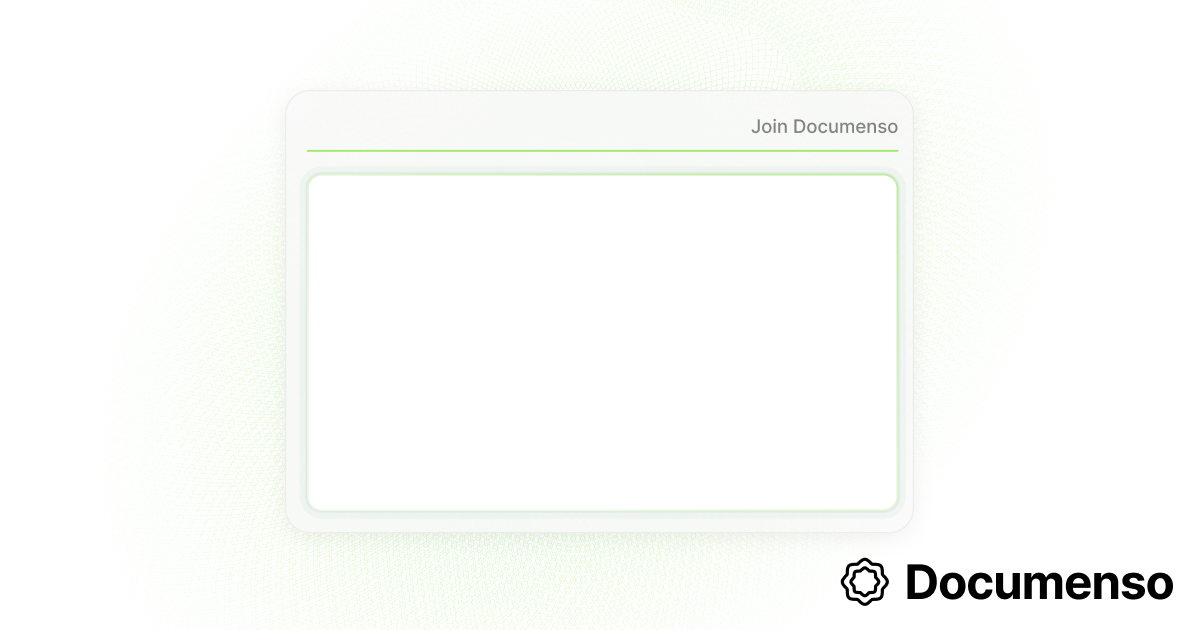
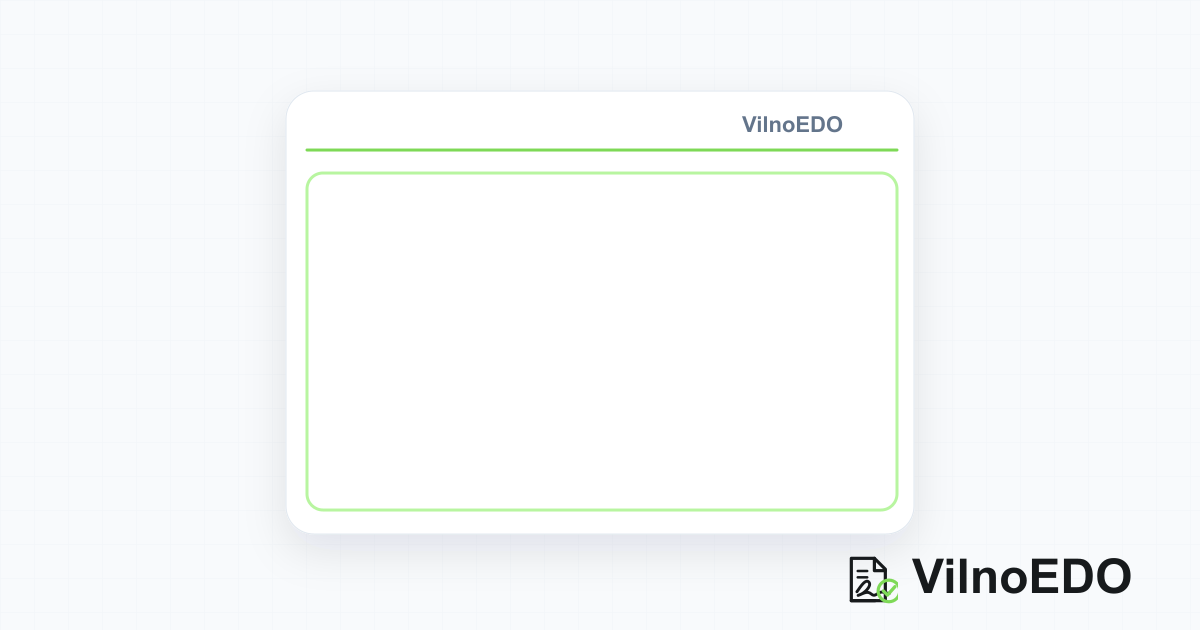
fix: replace Documenso OpenGraph previews

diff --git a/apps/remix/app/utils/meta.ts b/apps/remix/app/utils/meta.ts
@@ -3,6 +3,7 @@ import { i18n, type MessageDescriptor } from '@lingui/core';
 
 export const appMetaTags = (title?: MessageDescriptor) => {
   const description = 'VilnoEDO is a modern document signing platform for Ukrainian electronic document workflows.';
+  const socialImage = `${NEXT_PUBLIC_WEBAPP_URL()}/opengraph-image-vilnoedo.png`;
 
   return [
     {
@@ -14,7 +15,7 @@ export const appMetaTags = (title?: MessageDescriptor) => {
     },
     {
       name: 'keywords',
-      content: 'VilnoEDO, electronic document signing, КЕП, УЕП, document workflow',
+      content: 'VilnoEDO, electronic document signing, KEP, UEP, document workflow',
     },
     {
       name: 'author',
@@ -34,7 +35,19 @@ export const appMetaTags = (title?: MessageDescriptor) => {
     },
     {
       property: 'og:image',
-      content: `${NEXT_PUBLIC_WEBAPP_URL()}/opengraph-image.jpg`,
+      content: socialImage,
+    },
+    {
+      property: 'og:image:width',
+      content: '1200',
+    },
+    {
+      property: 'og:image:height',
+      content: '630',
+    },
+    {
+      property: 'og:site_name',
+      content: 'VilnoEDO',
     },
     {
       property: 'og:type',
@@ -53,8 +66,12 @@ export const appMetaTags = (title?: MessageDescriptor) => {
       content: description,
     },
     {
+      name: 'twitter:title',
+      content: 'VilnoEDO',
+    },
+    {
       name: 'twitter:image',
-      content: `${NEXT_PUBLIC_WEBAPP_URL()}/opengraph-image.jpg`,
+      content: socialImage,
     },
   ];
 };

diff --git a/apps/remix/app/routes/_share+/share.$slug.tsx b/apps/remix/app/routes/_share+/share.$slug.tsx
@@ -16,7 +16,7 @@ export function meta({ params: { slug } }: Route.MetaArgs) {
     { description: 'I just signed a document in style with VilnoEDO!' },
     {
       property: 'og:title',
-      content: 'VilnoEDO - Join the open source signing revolution',
+      content: 'VilnoEDO - Signed document',
     },
     {
       property: 'og:description',
@@ -32,7 +32,7 @@ export function meta({ params: { slug } }: Route.MetaArgs) {
     },
     {
       name: 'twitter:site',
-      content: '@documenso',
+      content: '@vilnoedo',
     },
     {
       name: 'twitter:card',